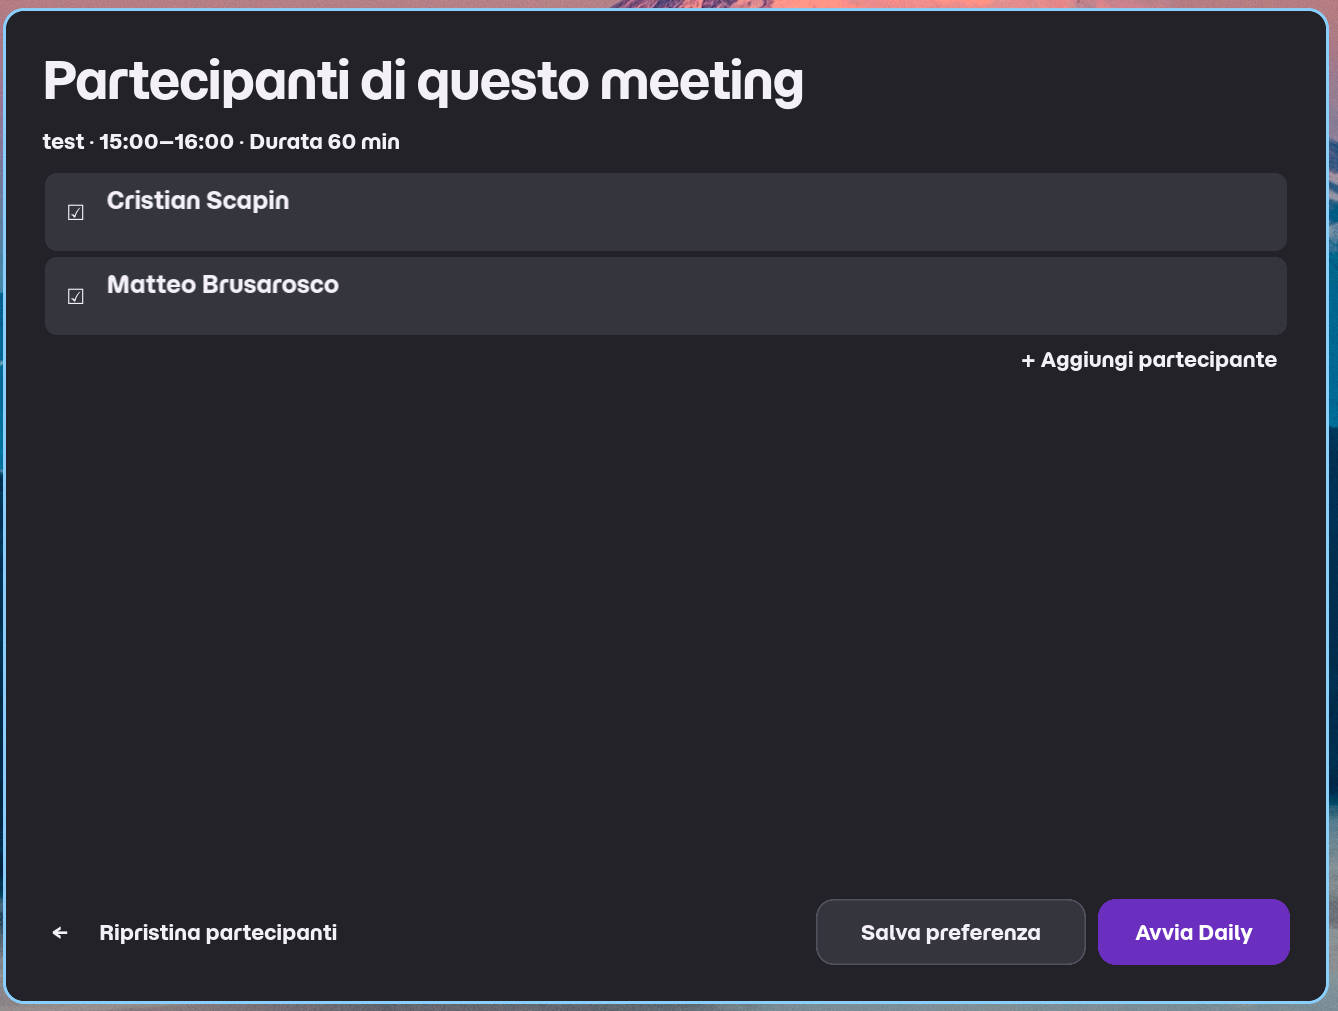
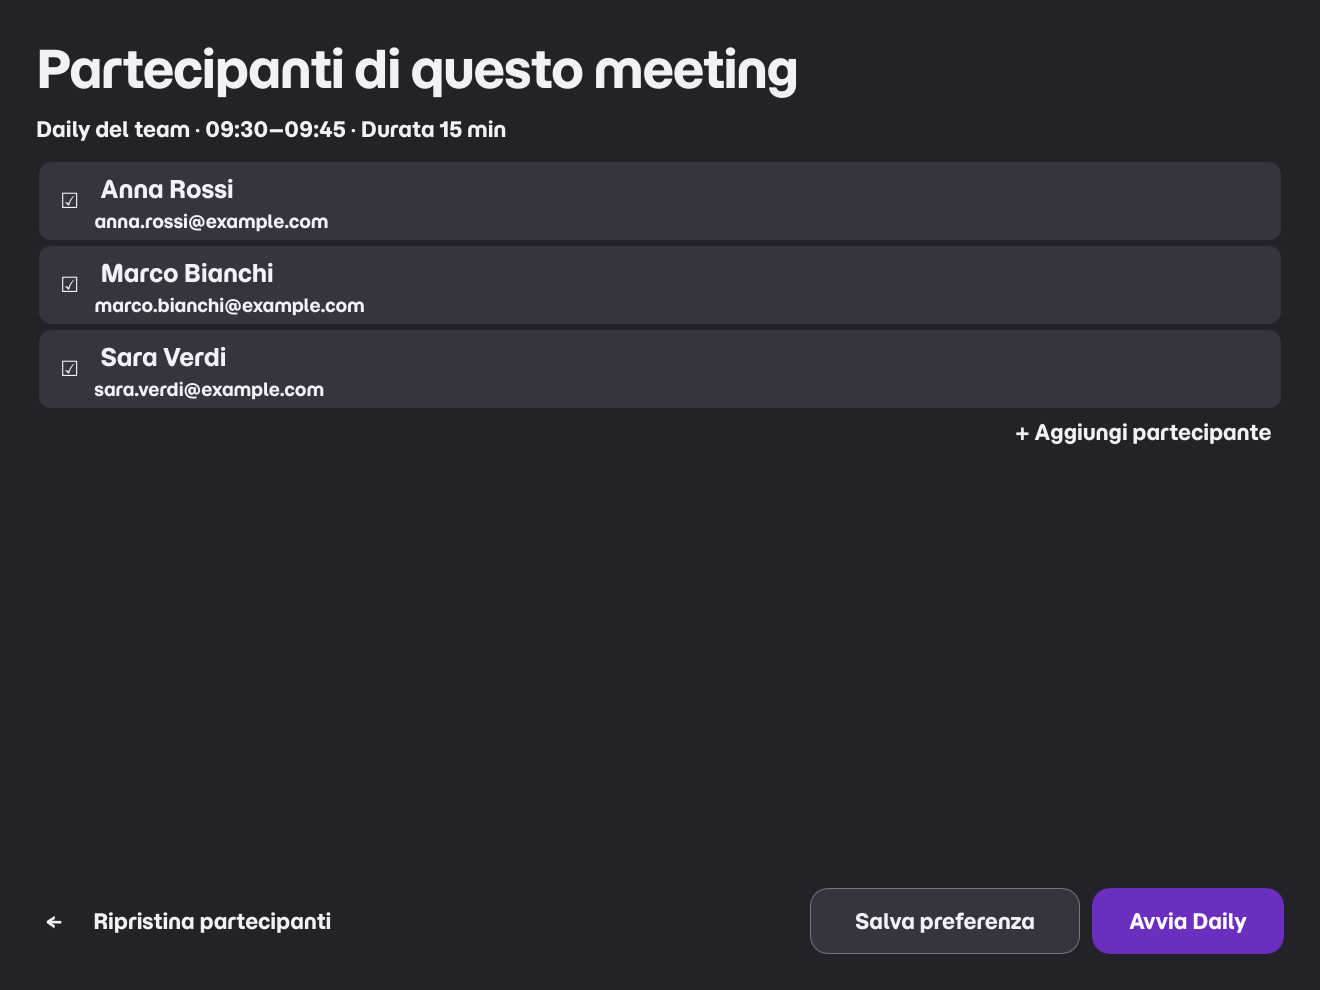
docs: refresh the screenshots and show every theme
Retake the README and guide screenshots in the default dark theme with
example data, since the theme system changed some of its colors, and
add the Impostazioni view and the meetings list in each theme, light
and dark.

Changed region(s): [[0.0, 0.0, 1.0, 1.0], [0.7765, 0.4242, 0.9629, 0.4545], [0.7765, 0.3333, 0.9629, 0.3636]]

diff --git a/README.md b/README.md
@@ -34,6 +34,10 @@ countdown whose speaking turns list the chosen participants.
 | --- | --- |
 | ![Participant editor](assets/screenshot_editor.png) | ![Editor with the Daily switch on](assets/screenshot_editor_daily.png) |
 
+| Impostazioni |
+| --- |
+| ![Impostazioni: theme and appearance](assets/screenshot_settings.png) |
+
 ## Requirements
 
 - [Rust](https://www.rust-lang.org/tools/install) (stable toolchain, `cargo`)
@@ -137,6 +141,13 @@ Each OpenMove theme pairs a light and a dark palette: Bubblegum
 elettrica (`openmove-2`) is "Bianco e blu" light with "Nero e lime" dark; Campo
 Blu (`openmove-3`) is "Lavanda elettrica" light with "Campo blu" dark. Design
 notes are in `docs/design/temi/`.
+
+| Theme | Chiaro | Scuro |
+| --- | --- | --- |
+| Schisaciaccole | ![Schisaciaccole, light](assets/themes/schisaciaccole-light.png) | ![Schisaciaccole, dark](assets/themes/schisaciaccole-dark.png) |
+| Bubblegum | ![Bubblegum, light](assets/themes/openmove-1-light.png) | ![Bubblegum, dark](assets/themes/openmove-1-dark.png) |
+| Lavanda elettrica | ![Lavanda elettrica, light](assets/themes/openmove-2-light.png) | ![Lavanda elettrica, dark](assets/themes/openmove-2-dark.png) |
+| Campo Blu | ![Campo Blu, light](assets/themes/openmove-3-light.png) | ![Campo Blu, dark](assets/themes/openmove-3-dark.png) |
 
 Adding a theme takes three changes in `crates/app/src`: a `ThemeId` variant, one
 entry in the ordered `THEME_CATALOG` in `theme_catalog.rs` (stable ID and name;
